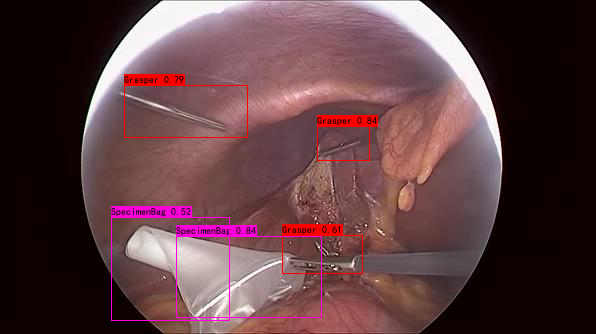
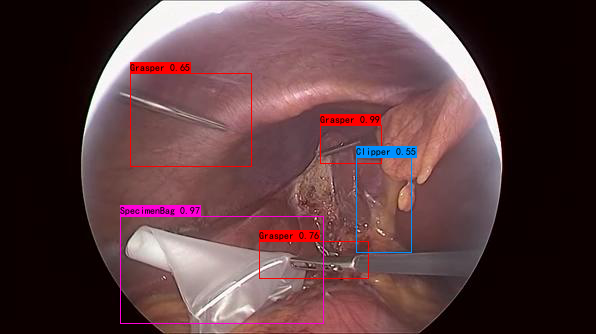
change  nms iou threshold

diff --git a/frcnn.py b/frcnn.py
@@ -43,7 +43,7 @@ class FRCNN(object):
         #---------------------------------------------------------------------#
         #   非极大抑制所用到的nms_iou大小
         #---------------------------------------------------------------------#
-        "nms_iou"       : 0.3,
+        "nms_iou"       : 0.01,
         #---------------------------------------------------------------------#
         #   用于指定先验框的大小
         #---------------------------------------------------------------------#

diff --git a/train.py b/train.py
@@ -78,7 +78,7 @@ if __name__ == "__main__":
     # if not os.path.exists('model_data/voc_weights_resnet.pth'):
     #     model_path      = 'model_data/voc_weights_resnet.pth'
     # else:
-    model_path = ''
+    model_path = 'logs/last_epoch_weights.pth'
         #------------------------------------------------------#
     #   input_shape     输入的shape大小
     #------------------------------------------------------#
